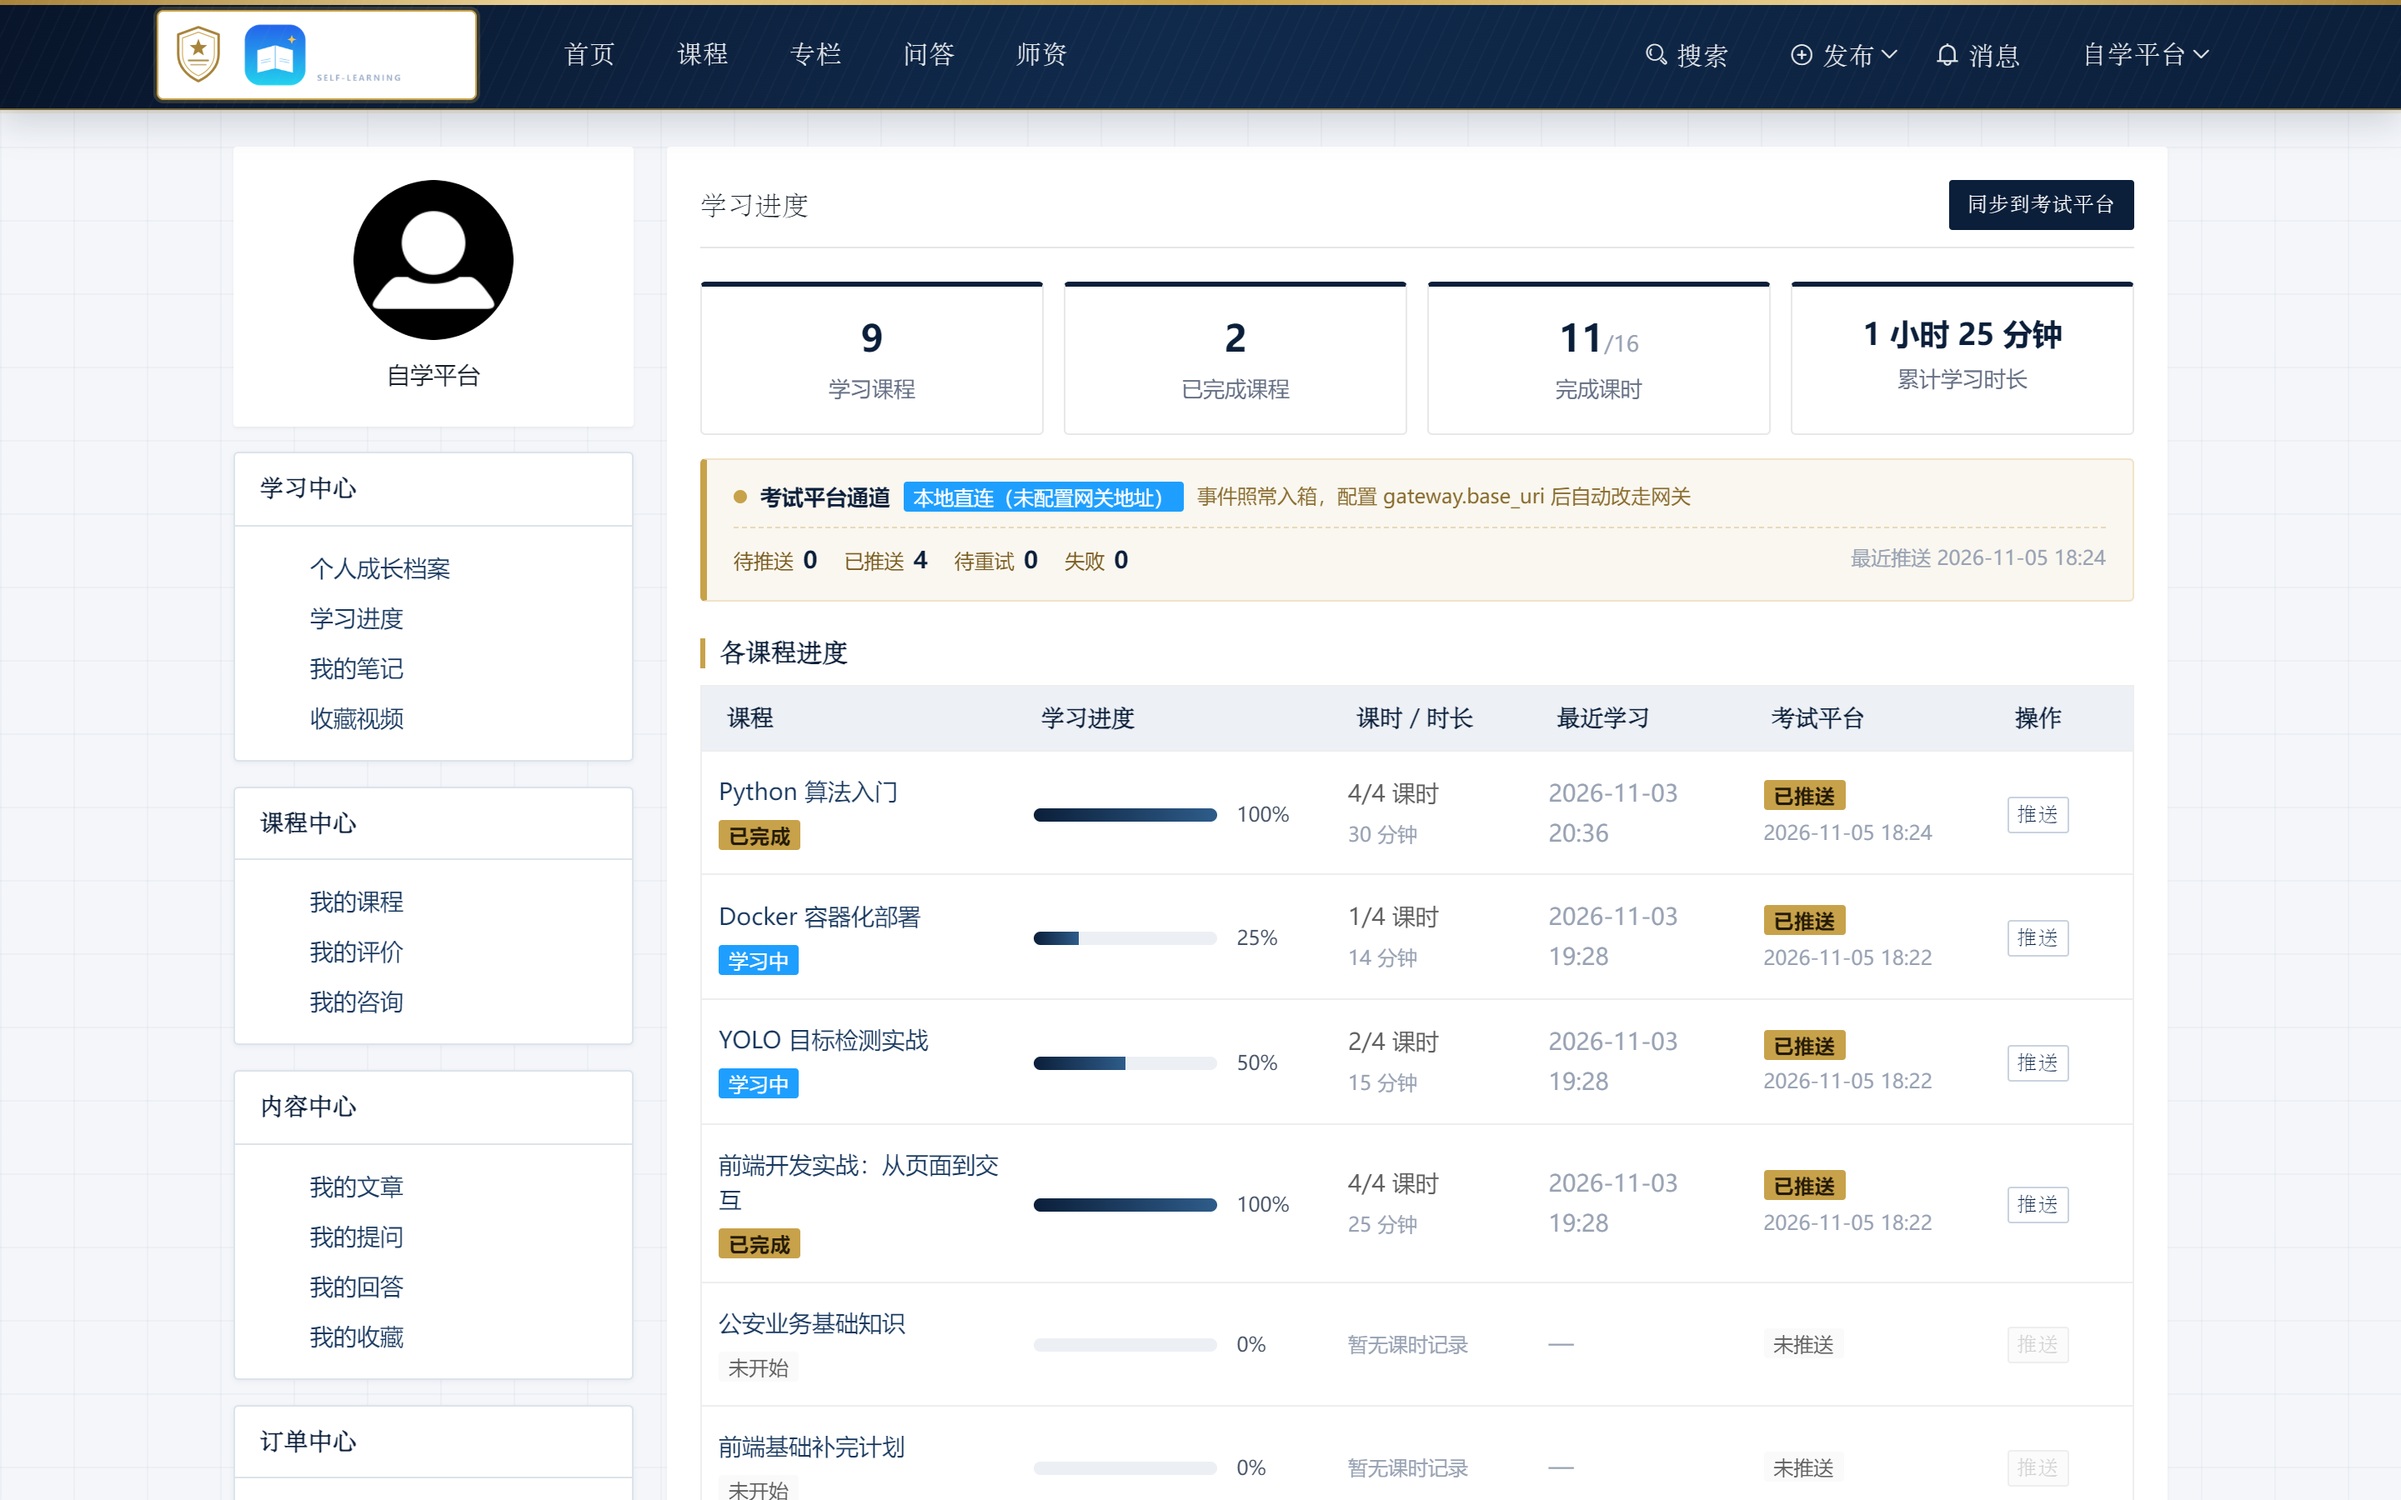
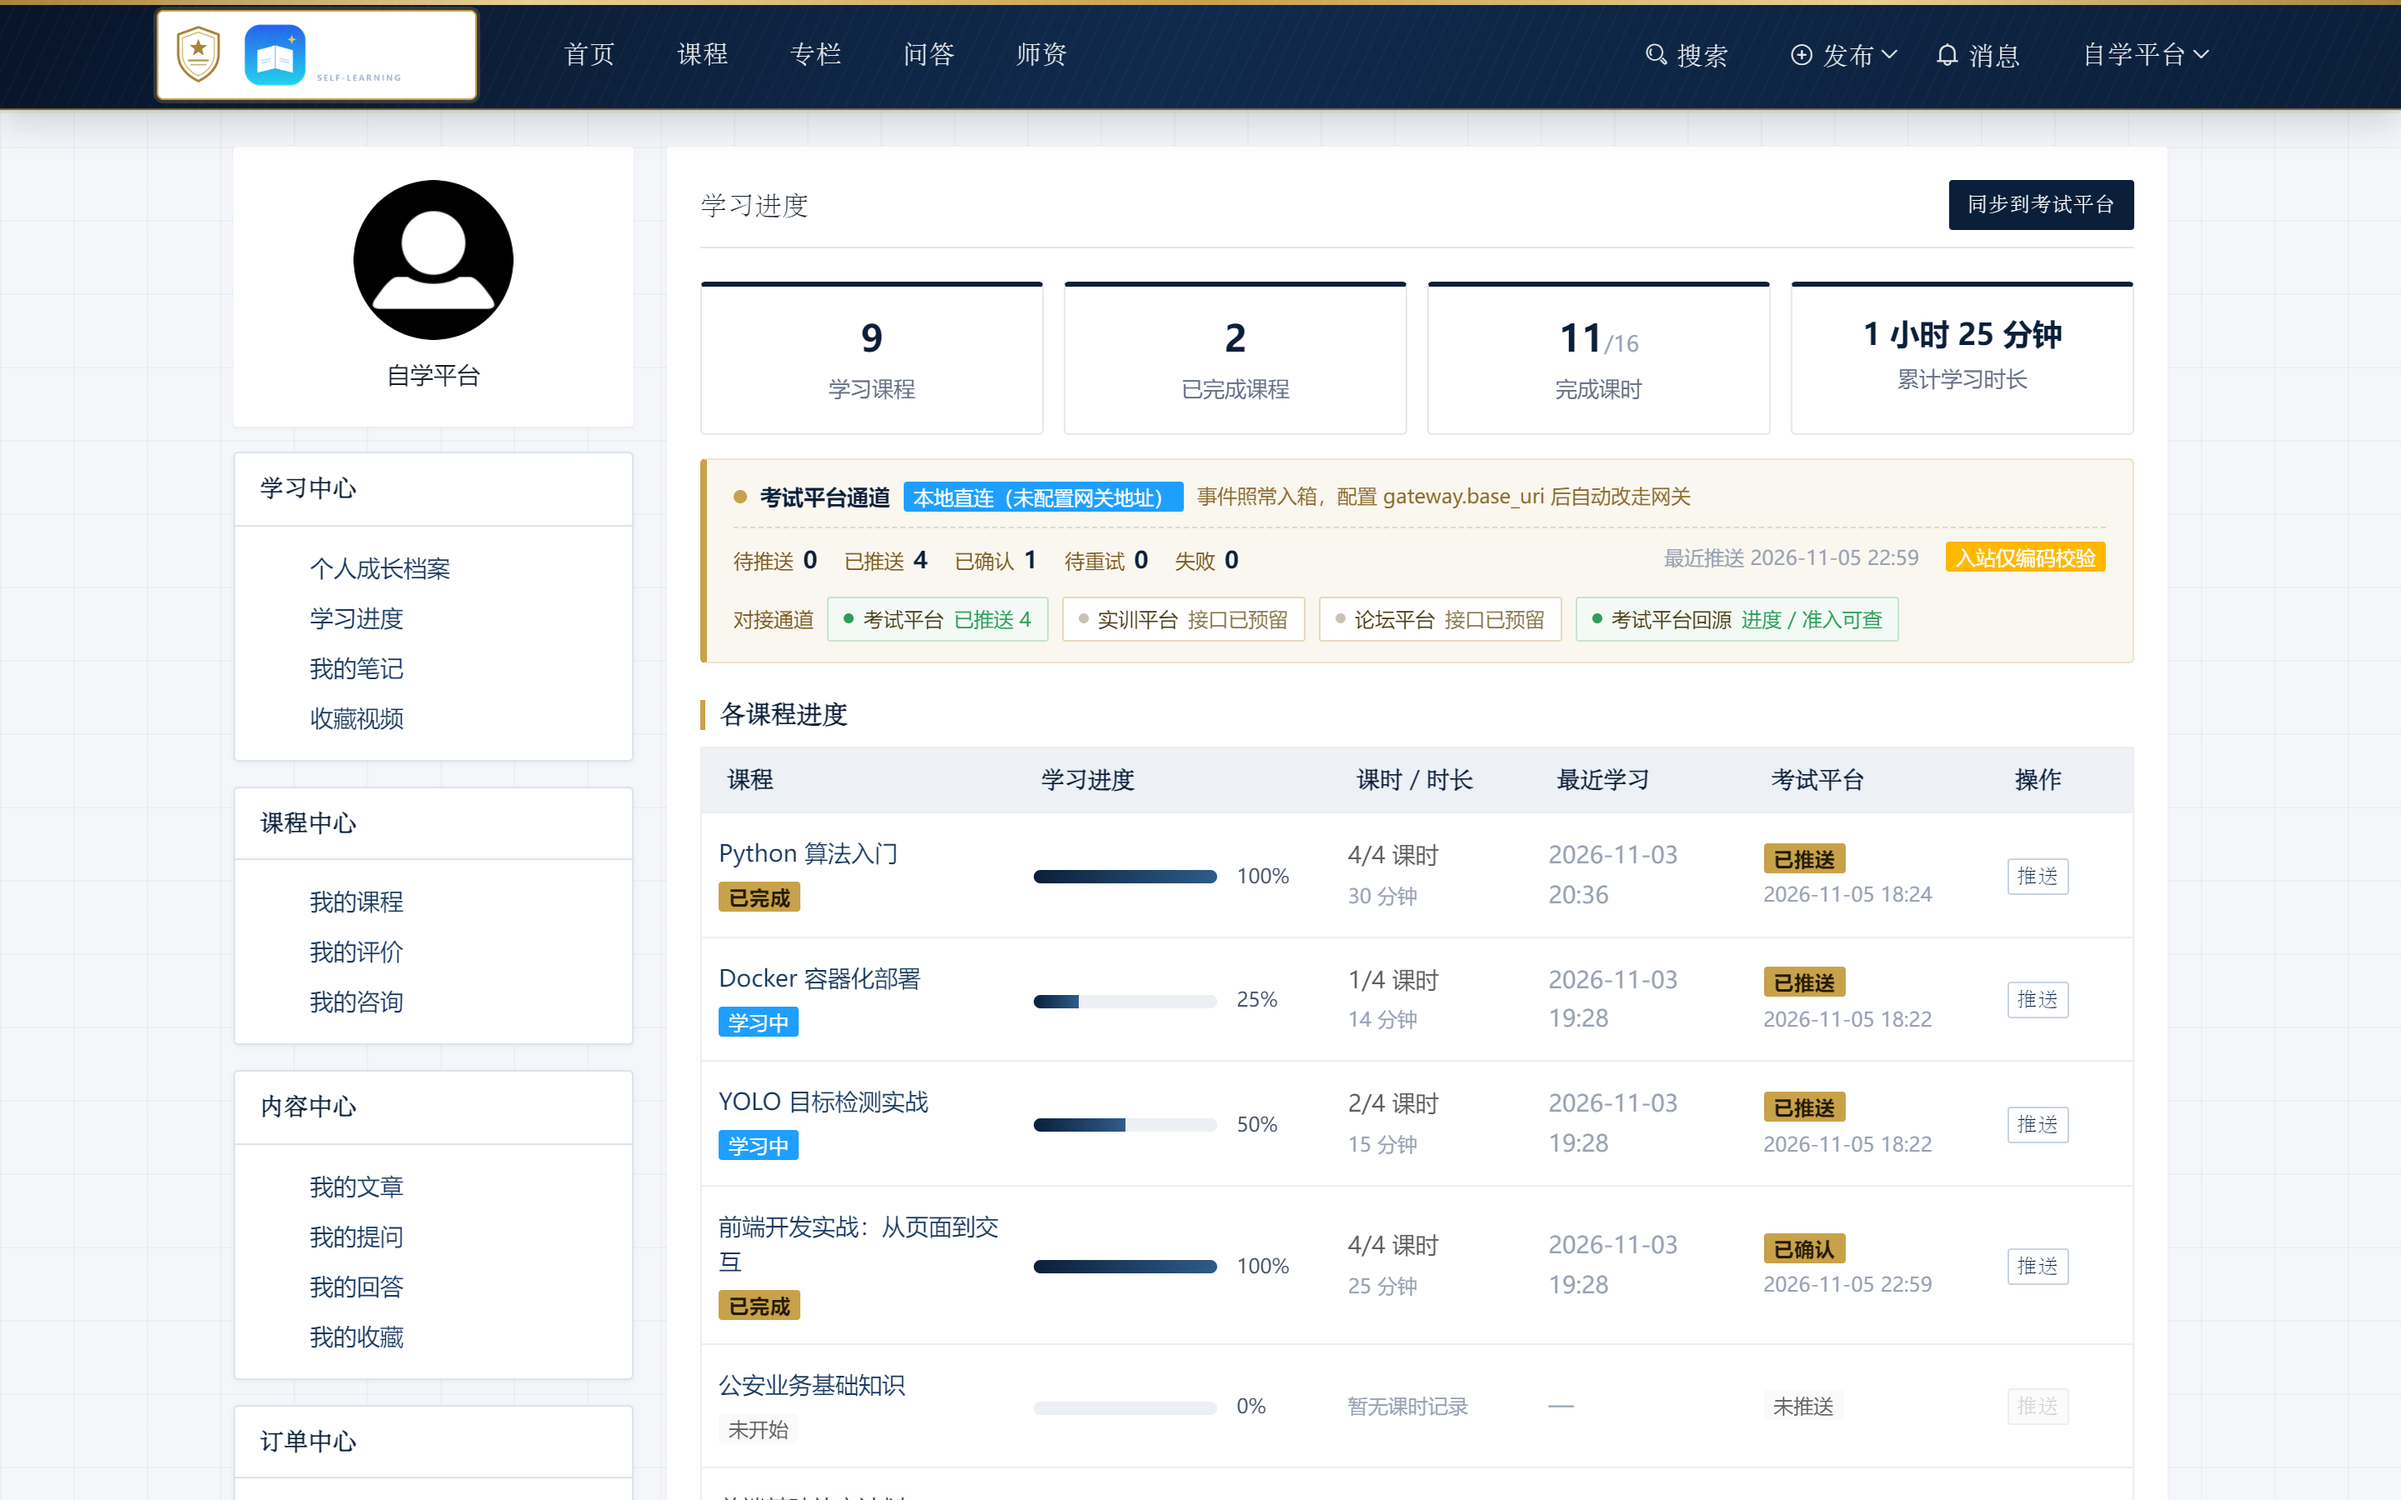
feat(learning): 进度窗口展示回执确认状态与鉴权档位
推送成功与对端确认是两件事，页面原来只有一个「已推送」计数，看不出
多少条真的被对端收下。补「已确认」计数与对端单号列。

鉴权档位以徽标展示（入站已签名校验 / 入站令牌校验 / 入站仅校验应用
编码）：对端接的是哪一档直接决定这条链路的安全强度，不该藏在配置里。
仅校验应用编码应视为过渡态，展示出来才容易被推动整改。

同步更新页面截图。

diff --git a/repro/src/course-tencent-cloud-master/app/Http/Home/Controllers/UserConsoleController.php b/repro/src/course-tencent-cloud-master/app/Http/Home/Controllers/UserConsoleController.php
@@ -7,13 +7,13 @@
 
 namespace App\Http\Home\Controllers;
 
-use App\Http\Home\Services\UserConsole as HomeUserConsoleService;
-use App\Services\Logic\Account\OAuthProvider as OAuthProviderService;
-use App\Services\Logic\User\Console\AccountInfo as AccountInfoService;
+use App\Services\Logic\Growth\Profile as GrowthProfileService;
+use App\Services\Logic\Growth\Sync as GrowthSyncService;
+use App\Services\Logic\Learning\Progress as LearningProgressService;
+use App\Services\Logic\Learning\Sync as LearningSyncService;
+use App\Services\Logic\Note\NoteList as NoteListService;
 use App\Services\Logic\User\Console\AnswerList as AnswerListService;
 use App\Services\Logic\User\Console\ArticleList as ArticleListService;
-use App\Services\Logic\User\Console\ConnectDelete as ConnectDeleteService;
-use App\Services\Logic\User\Console\ConnectList as ConnectListService;
 use App\Services\Logic\User\Console\ConsultList as ConsultListService;
 use App\Services\Logic\User\Console\ContactInfo as ContactInfoService;
 use App\Services\Logic\User\Console\ContactUpdate as ContactUpdateService;
@@ -31,28 +31,12 @@ use App\Services\Logic\User\Console\ProfileUpdate as ProfileUpdateService;
 use App\Services\Logic\User\Console\QuestionList as QuestionListService;
 use App\Services\Logic\User\Console\RefundList as RefundListService;
 use App\Services\Logic\User\Console\ReviewList as ReviewListService;
-use Phalcon\Mvc\Dispatcher;
 
 /**
  * @RoutePrefix("/uc")
  */
 class UserConsoleController extends Controller
 {
-
-    public function beforeExecuteRoute(Dispatcher $dispatcher)
-    {
-        parent::beforeExecuteRoute($dispatcher);
-
-        if ($this->authUser->id == 0) {
-            $dispatcher->forward([
-                'controller' => 'account',
-                'action' => 'login',
-            ]);
-            return false;
-        }
-
-        return true;
-    }
 
     public function initialize()
     {
@@ -97,45 +81,6 @@ class UserConsoleController extends Controller
 
         $this->view->pick('user/console/contact');
         $this->view->setVar('contact', $contact);
-    }
-
-    /**
-     * @Get("/account", name="home.uc.account")
-     */
-    public function accountAction()
-    {
-        $type = $this->request->getQuery('type', 'string', 'info');
-
-        $service = new AccountInfoService();
-
-        $account = $service->handle();
-
-        $service = new OAuthProviderService();
-
-        $oauthProvider = $service->handle();
-
-        $service = new ConnectListService();
-
-        $connects = $service->handle();
-
-        $service = new HomeUserConsoleService();
-
-        $wechatOAConnect = $service->getWeChatOAConnect();
-
-        if ($type == 'info') {
-            $this->view->pick('user/console/account_info');
-        } elseif ($type == 'phone') {
-            $this->view->pick('user/console/account_phone');
-        } elseif ($type == 'email') {
-            $this->view->pick('user/console/account_email');
-        } elseif ($type == 'password') {
-            $this->view->pick('user/console/account_password');
-        }
-
-        $this->view->setVar('wechat_oa_connected', $wechatOAConnect ? 1 : 0);
-        $this->view->setVar('oauth_provider', $oauthProvider);
-        $this->view->setVar('connects', $connects);
-        $this->view->setVar('account', $account);
     }
 
     /**
@@ -201,6 +146,87 @@ class UserConsoleController extends Controller
 
         $this->view->pick('user/console/favorites');
         $this->view->setVar('pager', $pager);
+    }
+
+    /**
+     * @Get("/notes", name="home.uc.notes")
+     */
+    public function notesAction()
+    {
+        $service = new NoteListService();
+
+        $pager = $service->handle();
+
+        $this->view->pick('user/console/notes');
+        $this->view->setVar('pager', $pager);
+    }
+
+    /**
+     * @Get("/growth", name="home.uc.growth")
+     */
+    public function growthAction()
+    {
+        $service = new GrowthProfileService();
+
+        $profile = $service->handle();
+
+        $this->seo->prependTitle('个人成长档案');
+
+        $this->view->pick('user/console/growth');
+        $this->view->setVar('profile', $profile);
+    }
+
+    /**
+     * @Post("/growth/sync", name="home.uc.growth_sync")
+     */
+    public function growthSyncAction()
+    {
+        $service = new GrowthSyncService();
+
+        $result = $service->handle();
+
+        $msg = sprintf('已同步 %d 条事件', $result['sent']);
+
+        return $this->jsonSuccess(['data' => $result, 'msg' => $msg]);
+    }
+
+    /**
+     * @Get("/progress", name="home.uc.progress")
+     */
+    public function progressAction()
+    {
+        $service = new LearningProgressService();
+
+        $progress = $service->handle();
+
+        $this->seo->prependTitle('学习进度');
+
+        $this->view->pick('user/console/progress');
+        $this->view->setVar('progress', $progress);
+    }
+
+    /**
+     * @Post("/progress/sync", name="home.uc.progress_sync")
+     */
+    public function progressSyncAction()
+    {
+        $courseId = (int)$this->request->getPost('course_id', 'int', 0);
+
+        $service = new LearningSyncService();
+
+        $result = $courseId > 0 ? $service->pushCourse($courseId) : $service->handle();
+
+        if ($result['dead'] > 0) {
+            $msg = sprintf('已推送 %d 条，%d 条失败待排查', $result['sent'], $result['dead']);
+        } elseif ($result['sent'] > 0) {
+            $msg = sprintf('已推送 %d 条学习进度事件', $result['sent']);
+        } elseif (!empty($result['note'])) {
+            $msg = $result['note'];
+        } else {
+            $msg = '当前进度已是最新，无需重复推送';
+        }
+
+        return $this->jsonSuccess(['data' => $result, 'msg' => $msg]);
     }
 
     /**
@@ -339,25 +365,6 @@ class UserConsoleController extends Controller
         $service->handle();
 
         $content = ['msg' => '更新收货信息成功'];
-
-        return $this->jsonSuccess($content);
-    }
-
-    /**
-     * @Post("/connect/{id:[0-9]+}/delete", name="home.uc.unconnect")
-     */
-    public function deleteConnectAction($id)
-    {
-        $service = new ConnectDeleteService();
-
-        $service->handle($id);
-
-        $location = $this->url->get(['for' => 'home.uc.account']);
-
-        $content = [
-            'location' => $location,
-            'msg' => '解除登录绑定成功',
-        ];
 
         return $this->jsonSuccess($content);
     }

diff --git a/repro/src/course-tencent-cloud-master/app/Services/Learning/Collect.php b/repro/src/course-tencent-cloud-master/app/Services/Learning/Collect.php
@@ -7,8 +7,11 @@
  * eventId / eventType / eventVersion / occurredAt / sourcePlatform /
  * sourceEntityId / actorId / correlationId / requestId / data。
  *
- * 纪律：跨平台通道只发目录内事件。learning.progress.updated 为进度增量，
- * course.completed 为完成事实，两者都由考试平台订阅。
+ * 纪律（接入说明 8.1）：跨平台正式通道只发事件目录内类型，目前是 course.completed。
+ * learning.progress.updated 属本地扩展事件，默认不投递（中间态由对端回源
+ * GET /progress 获取），只有对端显式开启 extensions 并配置独立路径时才走扩展通道。
+ *
+ * 多对端：事件带 target，标识发给考试平台 / 实训平台 / 论坛平台，投递时按 target 路由。
  */
 
 namespace App\Services\Learning;
@@ -40,13 +43,14 @@ class Collect extends Service
      * @param CourseModel $course
      * @param string $actorKey 操作者对外主键，留空取本人
      * @param string $requestId 单次请求 ID，留空自动生成
+     * @param string $target 对端标识（exam|training|forum）
      * @return ExamOutboxModel|null
      */
-    public function progressUpdated(CourseUserModel $courseUser, CourseModel $course, $actorKey = '', $requestId = '')
+    public function progressUpdated(CourseUserModel $courseUser, CourseModel $course, $actorKey = '', $requestId = '', $target = 'exam')
     {
         if ($courseUser->user_id <= 0 || $course->id <= 0) return null;
 
-        if (!$this->isEnabled()) return null;
+        if (!$this->isEnabled($target)) return null;
 
         $progress = (int)$courseUser->progress;
 
@@ -56,17 +60,27 @@ class Collect extends Service
 
         $eventType = $completed ? ExamOutboxModel::TYPE_COMPLETED : ExamOutboxModel::TYPE_PROGRESS;
 
+        /**
+         * 通道纪律：事件不在该对端白名单内则不入箱，
+         * 避免下游收到未定义类型后按「未知主版本」隔离告警。
+         */
+        $registry = new Peers();
+
+        $channel = $registry->allows($target, $eventType);
+
+        if ($channel === '') return null;
+
         $repo = new ExamOutboxRepo();
 
         if ($completed) {
 
-            if ($repo->existsFact($eventType, $courseUser->user_id, $course->id, self::EVENT_VERSION)) {
+            if ($repo->existsFact($eventType, $courseUser->user_id, $course->id, self::EVENT_VERSION, $target)) {
                 return null;
             }
 
         } else {
 
-            $lastProgress = $repo->findLastProgress($courseUser->user_id, $course->id);
+            $lastProgress = $repo->findLastProgress($courseUser->user_id, $course->id, $target);
 
             if ($progress <= $lastProgress) return null;
 
@@ -116,6 +130,8 @@ class Collect extends Service
 
         $outbox = new ExamOutboxModel();
 
+        $outbox->target = $target;
+        $outbox->channel = $channel;
         $outbox->event_id = $eventId;
         $outbox->event_type = $eventType;
         $outbox->event_version = self::EVENT_VERSION;
@@ -138,13 +154,42 @@ class Collect extends Service
     }
 
     /**
-     * 是否开启向考试平台推送
+     * 是否开启向该对端推送
      *
+     * @param string $target
      * @return bool
      */
-    public function isEnabled()
+    public function isEnabled($target = 'exam')
     {
-        return (bool)$this->getConfig()->path('exam.enabled', true);
+        return (new Peers())->isEnabled($target);
+    }
+
+    /**
+     * 完成事实扇出：给每个已启用且允许该事件的对端各入箱一条
+     *
+     * 课程完成是事件目录内的类型，考试平台、实训平台、论坛平台都可订阅；
+     * 各自独立入箱（独立 eventId、独立 target），某个对端失败不影响其他对端。
+     *
+     * @param CourseUserModel $courseUser
+     * @param CourseModel $course
+     * @return array target => eventId
+     */
+    public function courseCompletedFanout(CourseUserModel $courseUser, CourseModel $course)
+    {
+        $result = [];
+
+        $registry = new Peers();
+
+        foreach ($registry->enabled() as $target => $peer) {
+
+            if ($registry->allows($target, ExamOutboxModel::TYPE_COMPLETED) === '') continue;
+
+            $outbox = $this->progressUpdated($courseUser, $course, '', '', $target);
+
+            if ($outbox) $result[$target] = (string)$outbox->event_id;
+        }
+
+        return $result;
     }
 
     /**

diff --git a/repro/src/course-tencent-cloud-master/app/Services/Logic/Learning/Progress.php b/repro/src/course-tencent-cloud-master/app/Services/Logic/Learning/Progress.php
@@ -59,10 +59,13 @@ class Progress extends LogicService
 
         $identity = new IdentityKey();
 
+        $sync = new Sync();
+
         return [
             'userId' => $identity->forUserId($user->id),
             'overview' => $data['overview'],
             'courses' => $data['courses'],
+            'peers' => $sync->peerStats($user->id),
             'ruleVersion' => self::RULE_VERSION,
             'generatedAt' => gmdate('Y-m-d\TH:i:s\Z'),
         ];
@@ -302,6 +305,8 @@ class Progress extends LogicService
                 'progress' => (int)$row->progress,
                 'status' => (int)$row->status,
                 'status_text' => $row->getStatusText(),
+                'acked' => $row->isAcked(),
+                'remote_id' => (string)$row->remote_id,
                 'response_code' => (int)$row->response_code,
                 'retry_count' => (int)$row->retry_count,
                 'time_text' => date('Y-m-d H:i:s', (int)$row->occurred_at),
